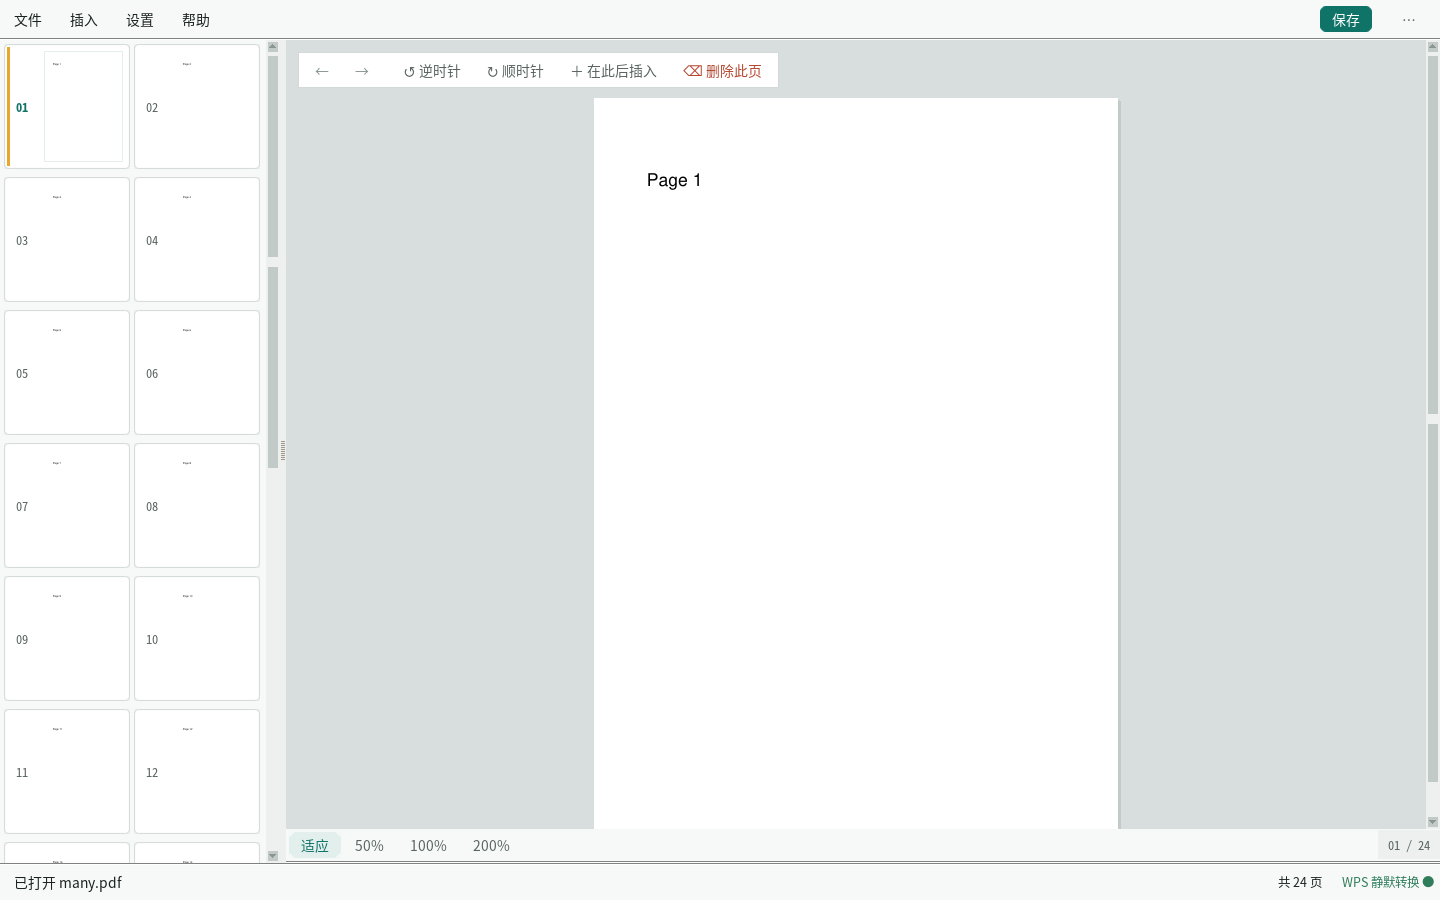
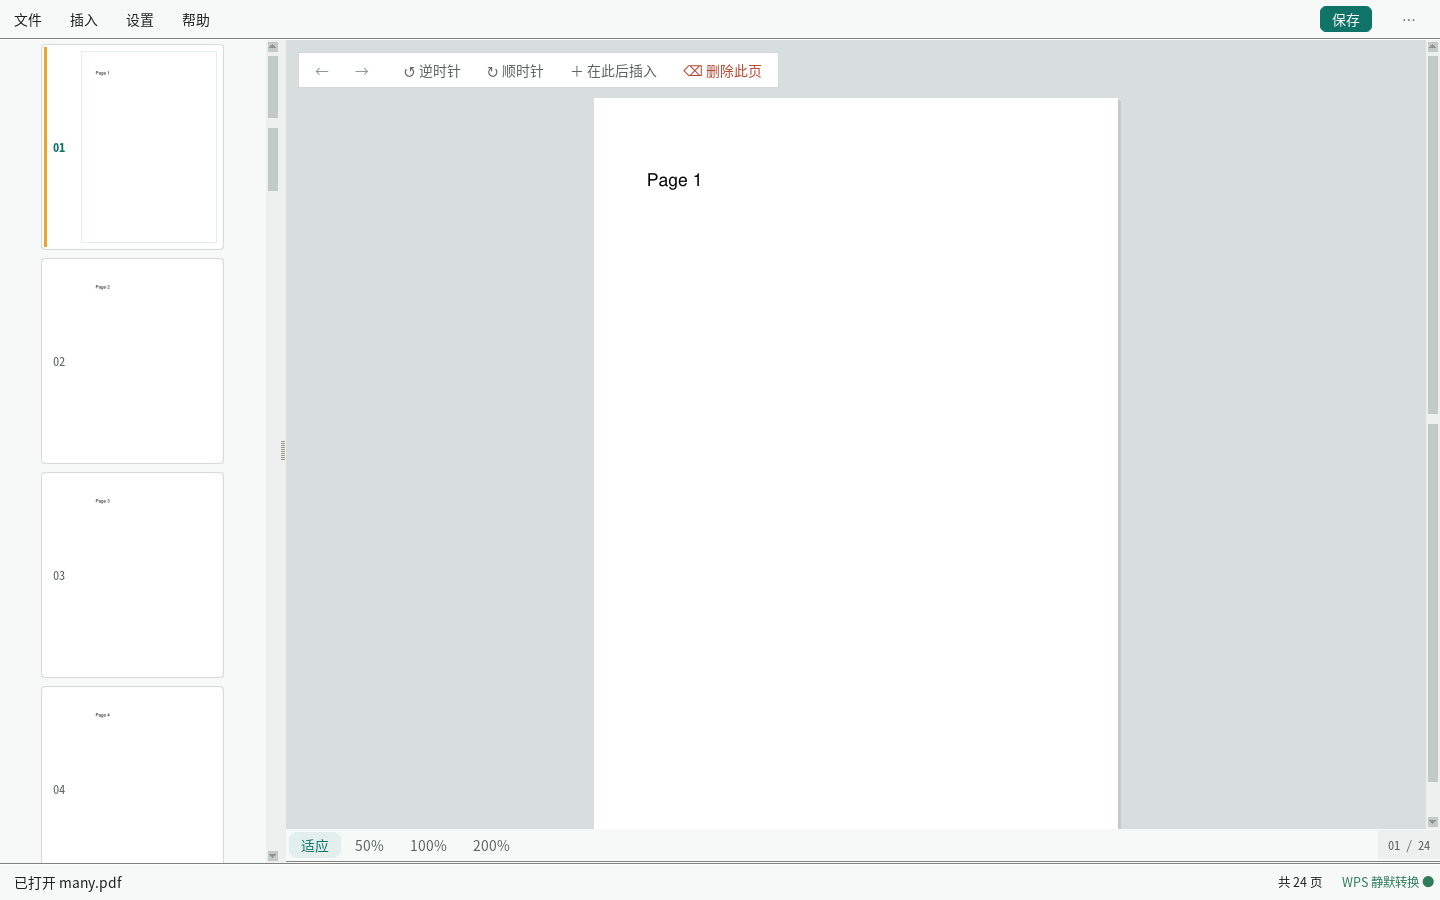
style(ui): 页面轨默认单列
默认宽度下一列一个页样（缩略图放大到 190px 高，整列居中）；
把页面轨拉宽到 360px 以上才排两列、560px 三列。

diff --git a/gui/thumbnail_panel.py b/gui/thumbnail_panel.py
@@ -13,11 +13,12 @@ class ThumbnailPanel:
     列数随宽度自适应，缩略图按可用宽度渲染（不再被裁切）。
     """
 
-    THUMB_HEIGHT = 118     # 目标高度（像素）
+    THUMB_HEIGHT = 118     # 多列时的目标高度（像素）
+    THUMB_HEIGHT_ONE = 190  # 单列时放大：一条只放一个页样，看得清
     CARD_GAP = 10
     INDEX_WIDTH = 30       # 页码列宽
-    TWO_COL_MIN = 250      # 达到此宽度显示两列
-    THREE_COL_MIN = 430
+    TWO_COL_MIN = 360      # 拉宽到这么宽才排两列（默认一列）
+    THREE_COL_MIN = 560
 
     def __init__(self, parent, on_select=None, on_reorder=None,
                  on_delete=None, on_rotate=None, on_insert_after=None):
@@ -85,6 +86,7 @@ class ThumbnailPanel:
         self.frame.pack(**kwargs)
 
     def _on_inner_configure(self, event):
+        self._center_inner()
         self.canvas.configure(scrollregion=self.canvas.bbox('all'))
         self._sync_scrollbar()
 
@@ -138,7 +140,7 @@ class ThumbnailPanel:
 
         for i, card in enumerate(self.cards):
             page = card['page']
-            size = self._thumb_size(page, available)
+            size = self._thumb_size(page, available, cols)
             if changed or self._sizes.get(page) != size:
                 self._sizes[page] = size
                 self._render_thumb(card, size)
@@ -146,9 +148,21 @@ class ThumbnailPanel:
             card['frame'].grid(row=row, column=col, sticky='w',
                                padx=(4 if col == 0 else 0),
                                pady=4)
+        self._center_inner()
         self._sync_scrollbar()
 
-    def _thumb_size(self, page, available):
+    def _center_inner(self):
+        """单列时把整列内容居中：右边空一大块会显得没做完。"""
+        if self._cols != 1:
+            self.canvas.coords('inner', 0, 0)
+            return
+        canvas_w = self.canvas.winfo_width()
+        inner_w = self.inner.winfo_reqwidth()
+        if canvas_w <= 1 or inner_w <= 1:
+            return
+        self.canvas.coords('inner', max(0, (canvas_w - inner_w) // 2), 0)
+
+    def _thumb_size(self, page, available, cols=2):
         """按可用宽度与目标高度共同决定缩略图尺寸（保持比例）。"""
         try:
             page_w, page_h = self.doc.get_page_size(page)
@@ -158,7 +172,8 @@ class ThumbnailPanel:
             page_w, page_h = 612.0, 792.0
         budget = max(available - self.INDEX_WIDTH - 12, 48)
         by_width = budget
-        by_height = self.THUMB_HEIGHT * page_w / page_h
+        height_cap = self.THUMB_HEIGHT_ONE if cols == 1 else self.THUMB_HEIGHT
+        by_height = height_cap * page_w / page_h
         return max(40, int(min(by_width, by_height)))
 
     def _render_thumb(self, card, target_width):
